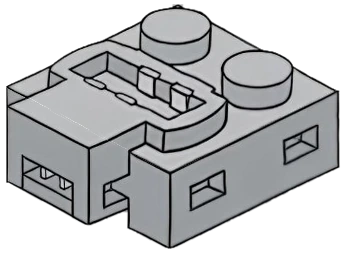
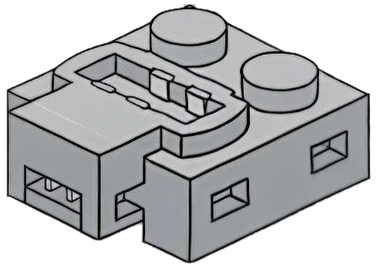
Wiring: new hub pictures (the user's 6.0 and 4.0 renders); hub camera read off his wireframe views (top-face axes, square stud grid, vertical up) so studs, ports and connectors line up exactly; connectors from his four-side drawing re-projected into that camera on each port's 2x2 spot
Claude-Session: https://claude.ai/code/session_01RxQ4QJZ9M2VY5cz1gsySH8

Changed region(s): [[0.0, 0.0, 1.0, 0.996], [0.546, 0.664, 0.6897, 0.8577]]

diff --git a/app/src/main/assets/app.js b/app/src/main/assets/app.js
@@ -6394,26 +6394,21 @@ var SS=U,AX=[-.84*SS,.40*SS],AY=[-.66*SS,-.42*SS],AZ=[0,-.84*SS],HZ=3.4,CZ=2.25,
 // the hub is the real picture (redrawn in the motor style); its top plane maps hub-drawing px onto picture px with this affine fit
 // (least squares on the 12 stud centres, rms 5 px); HK scales the picture so one stud matches U
 var HM=[[-0.53579,-0.46667,1307.89668],[0.25023,-0.3043,143.12769]],HK=.6,HWH=[1125,962],HP=[0,0];
-// Hub pictures (the user's reference drawings). M maps the hub plan (162 px = 1 stud) onto picture px (least squares on the
-// port centres, checked on the studs); K scales the picture so a stud is U; AZ = picture px per stud upward.
-// P: port centre on the plan and the way its plug's cable leaves (the contact half sits on the port, the stud half inward).
+// Hub pictures: the user's renders of the 6.0 and 4.0 hubs. Their camera was read off the matching wireframe views (the two
+// top-face axes, square studs, vertical up); M maps the hub plan (162.5 px = 1 stud) onto the hub top in picture px,
+// AZ = picture px per stud upward, K scales the picture. P: centre of each port's contact half on the plan and the way its
+// cable leaves; the stud half of the connector sits on the two hub studs inward.
 var HUBS={
- '6':{img:'img/pf/hub6.webp',WH:[1329,1134],M:[[0.65034,0.45833,-178.11154],[-0.2977,0.38403,450.5431]],K:.51,AZ:93,keep:[[243,468,62,40,0],[360,558,64,26,33]],
-  P:{B:[632,240,0,-1,'b'],D:[957,240,0,-1,'b'],F:[1270,240,0,-1,'b'],A:[632,720,0,1,'f'],C:[957,720,0,1,'f'],E:[1270,720,0,1,'f']}},
- // keep: spots of the hub picture (centre x, y, radii, turn) drawn again over the connectors so they always show (power button, USB)
- '4':{img:'img/pf/hub4.webp',WH:[1003,846],M:[[0.52244,0.5,2.4359],[-0.25962,0.26119,263.89208]],K:.58,AZ:88,
-  P:{B:[170,245,-1,0,'ab'],A:[170,580,-1,0,'ab'],C:[950,245,1,0,'cd'],D:[950,580,1,0,'cd']}}};
-// the user's connector pictures: size and the top centres of their two studs (stud at a = -1/2 stud first, then a = +1/2 stud)
-// 6.0: b = B D F (cable to the back), f = A C E (cable to the front); 4.0: ab = A B (cable to the A/B end), cd = C D (to the C/D end)
-// the user's connector, drawn from four sides (his drawing). Each side view was re-projected face by face (top, left, right)
-// into the hub picture's own view, so it stands square on the hub: off = picture corner from the near-left bottom corner of
-// the connector's 2x2 spot on the hub top, ex = where its cable leaves, both in hub picture px.
-// 6.0: b = B D F (cable to the back), f = A C E (to the front); 4.0: ab = A B (to the A/B end), cd = C D (to the C/D end)
-var PLUGS={b:{W:412,H:350,off:[-6.98,-217.74],ex:[52.84,-70.02]},f:{W:403,H:317,off:[-4.86,-184.91],ex:[307.48,23.18]},cd:{W:349,H:281,off:[-3.66,-189.08],ex:[291.67,-65.15]},ab:{W:348,H:253,off:[-7.05,-161.40],ex:[40.62,-6.99]}};
+ '6':{img:'img/pf/hub6.webp',WH:[1401,1193],M:[[0.668728, 0.506353, -1113.192733], [-0.313255, 0.413708, 464.477415]],K:0.49,AZ:107.091,
+  P:{A:[1478.07,1439.48,0,1,'f'],B:[1478.07,950.62,0,-1,'b'],C:[1801.72,1439.48,0,1,'f'],D:[1801.72,950.62,0,-1,'b'],E:[2126.72,1439.48,0,1,'f'],F:[2126.72,950.62,0,-1,'b']}},
+ '4':{img:'img/pf/hub4.webp',WH:[1098,921],M:[[0.55587, 0.558967, -1671.459417], [-0.271116, 0.269614, 467.777724]],K:0.55,AZ:112.024,
+  P:{A:[1963.74,1786.69,-1,0,'ab'],B:[1963.74,1459.27,-1,0,'ab'],C:[2773.82,1459.27,1,0,'cd'],D:[2773.82,1786.69,1,0,'cd']}}};
+// the user's connector, drawn from four sides (his drawing). Each side view is re-projected face by face (top, left, right)
+// into the hub camera, so it stands square on its 2x2 spot: off = picture corner from the near-left bottom corner of the spot
+// on the hub top, ex = where its cable leaves, both in hub picture px.
+// 6.0: b = B D F (housing to the back), f = A C E (mouth to the front); 4.0: ab = A B (mouth to the A/B end), cd = C D (housing to the C/D end)
+var PLUGS={b:{W:427,H:372,off:[-6.78,-230.03],ex:[54.33,-73.40]},f:{W:419,H:337,off:[-4.03,-195.05],ex:[327.57,27.70]},cd:{W:376,H:296,off:[-4.78,-201.46],ex:[316.91,-71.62]},ab:{W:376,H:268,off:[-7.81,-173.03],ex:[54.50,-4.96]}};
 var HKIND='',HIMG='',PORTS={};
-function hubKeep(){var h=HUBS[HKIND];if(!h||!h.keep) return '';var w=HWH[0]*HK,hh=HWH[1]*HK;
- return '<clipPath id="hkeep">'+h.keep.map(function(e){return '<ellipse cx="'+(HP[0]+e[0]*HK).toFixed(1)+'" cy="'+(HP[1]+e[1]*HK).toFixed(1)+'" rx="'+(e[2]*HK).toFixed(1)+'" ry="'+(e[3]*HK).toFixed(1)+'" transform="rotate('+e[4]+' '+(HP[0]+e[0]*HK).toFixed(1)+' '+(HP[1]+e[1]*HK).toFixed(1)+')"/>'}).join('')+'</clipPath>'+
-  '<image href="'+HIMG+'" x="'+HP[0].toFixed(1)+'" y="'+HP[1].toFixed(1)+'" width="'+w+'" height="'+hh+'" clip-path="url(#hkeep)" pointer-events="none"/>'}
 function hubKind(){var k=isMk4(WR.slot)?'4':'6',h=HUBS[k];HM=h.M;HK=h.K;HWH=h.WH;HIMG=h.img;PORTS=h.P;AZ=[0,-HK*h.AZ];if(HKIND!==k){HKIND=k;slotsFor(k)}}
 function W(x,y,z){return [HP[0]+HK*(HM[0][0]*x+HM[0][1]*y+HM[0][2])+(z-HZ)*AZ[0],HP[1]+HK*(HM[1][0]*x+HM[1][1]*y+HM[1][2])+(z-HZ)*AZ[1]]}
 function pt(q){return q[0].toFixed(1)+','+q[1].toFixed(1)}
